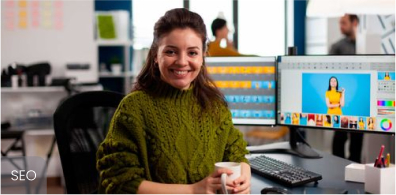
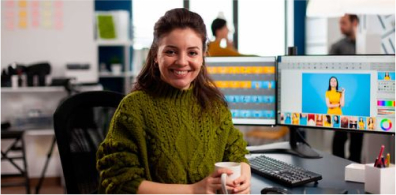
Update styles blog

Changed region(s): [[0.0, 0.8, 0.1212, 1.0]]

diff --git a/index.html b/index.html
@@ -399,11 +399,14 @@
               </div>
             </div>
             <div class="blog__items">
+              <!--Card #1-->
               <article class="blog__item item-blog">
-                <a href="" class="item-blog__category">Social Media</a>
-                <a class="item-blog__image">
-                  <img src="./img/blog/01.jpg" alt="Image" />
-                </a>
+                <div class="item-blog__header">
+                  <a class="item-blog__image">
+                    <img src="./img/blog/01.jpg" alt="Image" />
+                  </a>
+                  <a href="" class="item-blog__category">Social Media</a>
+                </div>
                 <div class="item-blog__body">
                   <div class="item-blog__date">August 28, 2022</div>
                   <h4 class="item-blog__title">
@@ -412,11 +415,61 @@
                     >
                   </h4>
                   <div class="item-blog__text">
-                   <p>
+                    <p>
                       Lorem ipsum dolor sit amet, consectetur adipiscing elit
                       lobortis arcu enim urna adipiscing praesent velit viverra
                       sit semper lorem.
-                   </p>
+                    </p>
+                  </div>
+                  <a href="" class="item-blog__link">Read now</a>
+                </div>
+              </article>
+              <!--Card #2-->
+              <article class="blog__item item-blog">
+                <div class="item-blog__header">
+                  <a class="item-blog__image">
+                    <img src="./img/blog/02.jpg" alt="Image" />
+                  </a>
+                  <a href="" class="item-blog__category">SEO</a>
+                </div>
+                <div class="item-blog__body">
+                  <div class="item-blog__date">August 28, 2022</div>
+                  <h4 class="item-blog__title">
+                    <a href="" class="item-blog__link-title"
+                      >Make a great first impression with these titles</a
+                    >
+                  </h4>
+                  <div class="item-blog__text">
+                    <p>
+                      Lorem ipsum dolor sit amet, consectetur adipiscing elit
+                      lobortis arcu enim urna adipiscing praesent velit viverra
+                      sit semper lorem.
+                    </p>
+                  </div>
+                  <a href="" class="item-blog__link">Read now</a>
+                </div>
+              </article>
+              <!--Card #3-->
+              <article class="blog__item item-blog">
+                <div class="item-blog__header">
+                  <a class="item-blog__image">
+                    <img src="./img/blog/03.jpg" alt="Image" />
+                  </a>
+                  <a href="" class="item-blog__category">Strategy</a>
+                </div>
+                <div class="item-blog__body">
+                  <div class="item-blog__date">August 28, 2022</div>
+                  <h4 class="item-blog__title">
+                    <a href="" class="item-blog__link-title"
+                      >How to Grab Your Reader’s Attention</a
+                    >
+                  </h4>
+                  <div class="item-blog__text">
+                    <p>
+                      Lorem ipsum dolor sit amet, consectetur adipiscing elit
+                      lobortis arcu enim urna adipiscing praesent velit viverra
+                      sit semper lorem.
+                    </p>
                   </div>
                   <a href="" class="item-blog__link">Read now</a>
                 </div>

diff --git a/css/style.css b/css/style.css
@@ -36,6 +36,8 @@ body {
 }
 .page__testimonials {
 }
+.page__blog {
+}
 
 .button {
   display: inline-block;
@@ -871,7 +873,105 @@ body {
 
 /* ================================================ */
 /* Blog */
-
+.blog {
+  padding-top: 100px;
+  padding-bottom: 100px;
+}
+.blog__container {
+}
+.blog__header {
+  margin-bottom: 64px;
+}
 .blog-title {
   max-width: 400px;
+}
+.blog__items {
+  display: grid;
+  gap: 48px;
+  grid-template-columns: repeat(3, 1fr);
+}
+.blog__item {
+}
+.item-blog {
+  background-color: rgba(129, 129, 139, 0.1);
+  border-radius: 24px;
+  overflow: hidden;
+  display: flex;
+  flex-direction: column;
+  min-height: 100%;
+}
+.item-blog__header {
+  position: relative;
+}
+.item-blog__category {
+  position: absolute;
+  bottom: 0;
+  left: 0;
+  border-radius: 0 10px 0 0;
+  background-color: rgba(129, 129, 139, 0.5);
+  font-size: 14px;
+  line-height: 1.6;
+  color: #fff;
+  padding: 9px 10px;
+}
+.item-blog__image {
+  display: block;
+  position: relative;
+  padding-bottom: 49.238579%; /* 194/394 */
+}
+.item-blog__image img {
+  position: absolute;
+  width: 100%;
+  height: 100%;
+  top: 0;
+  left: 0;
+  object-fit: cover;
+}
+.item-blog__body {
+  padding: 36px 26px;
+}
+.item-blog__date {
+  line-height: 1.5;
+  color: rgba(129, 129, 139, 0.9);
+}
+.item-blog__date:not(:last-child) {
+  margin-bottom: 20px;
+}
+.item-blog__title {
+  font-weight: 400;
+  font-size: 19px;
+  line-height: 1.4;
+  color: #fff;
+}
+.item-blog__title:hover {
+}
+.item-blog__title:not(:last-child) {
+  margin-bottom: 30px;
+}
+.item-blog__link-title:hover {
+  text-decoration: underline;
+}
+.item-blog__text {
+  line-height: 1.5;
+}
+.item-blog__text:not(:last-child) {
+  margin-bottom: 21px;
+}
+.item-blog__link {
+  font-size: 14px;
+  line-height: 1.6;
+  color: #3d96f4;
+}
+.item-blog__link:hover {
+  text-decoration: underline;
+}
+
+@media (max-width: 767.98px) {
+  .blog {
+    padding-top: 30px;
+    padding-bottom: 30px;
+  }
+  .item-testimonial {
+    padding: 30px 15px;
+  }
 }

diff --git a/css/reset.css b/css/reset.css
@@ -27,6 +27,7 @@ html {
 a {
   color: inherit;
   text-decoration: none;
+  cursor: pointer;
 }
 
 ul,
